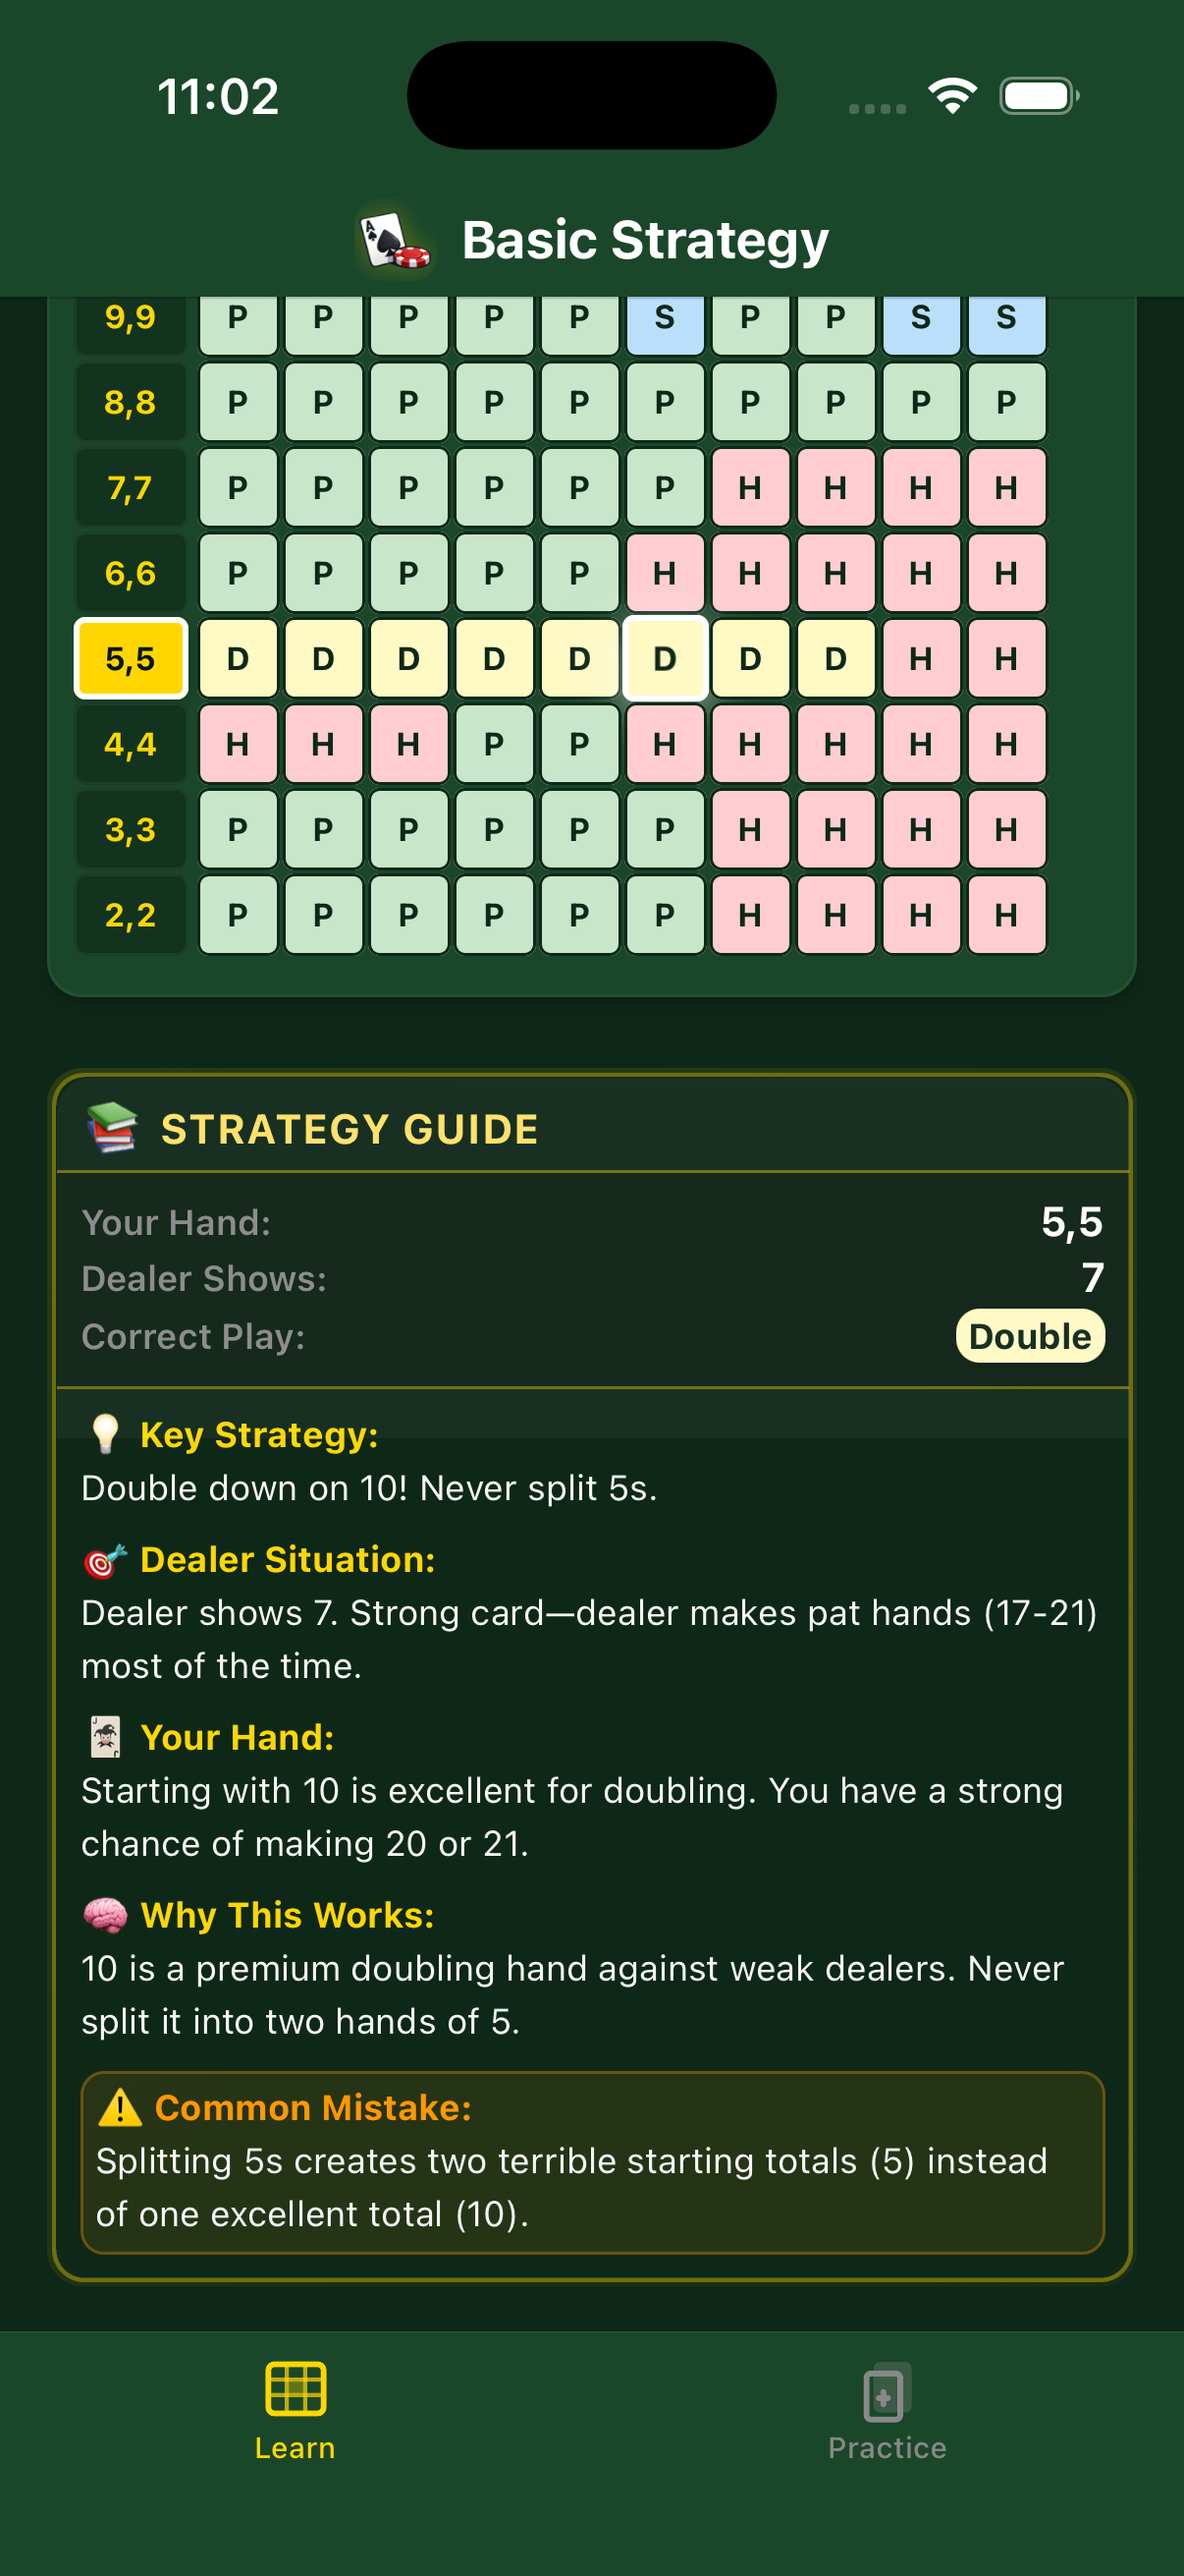
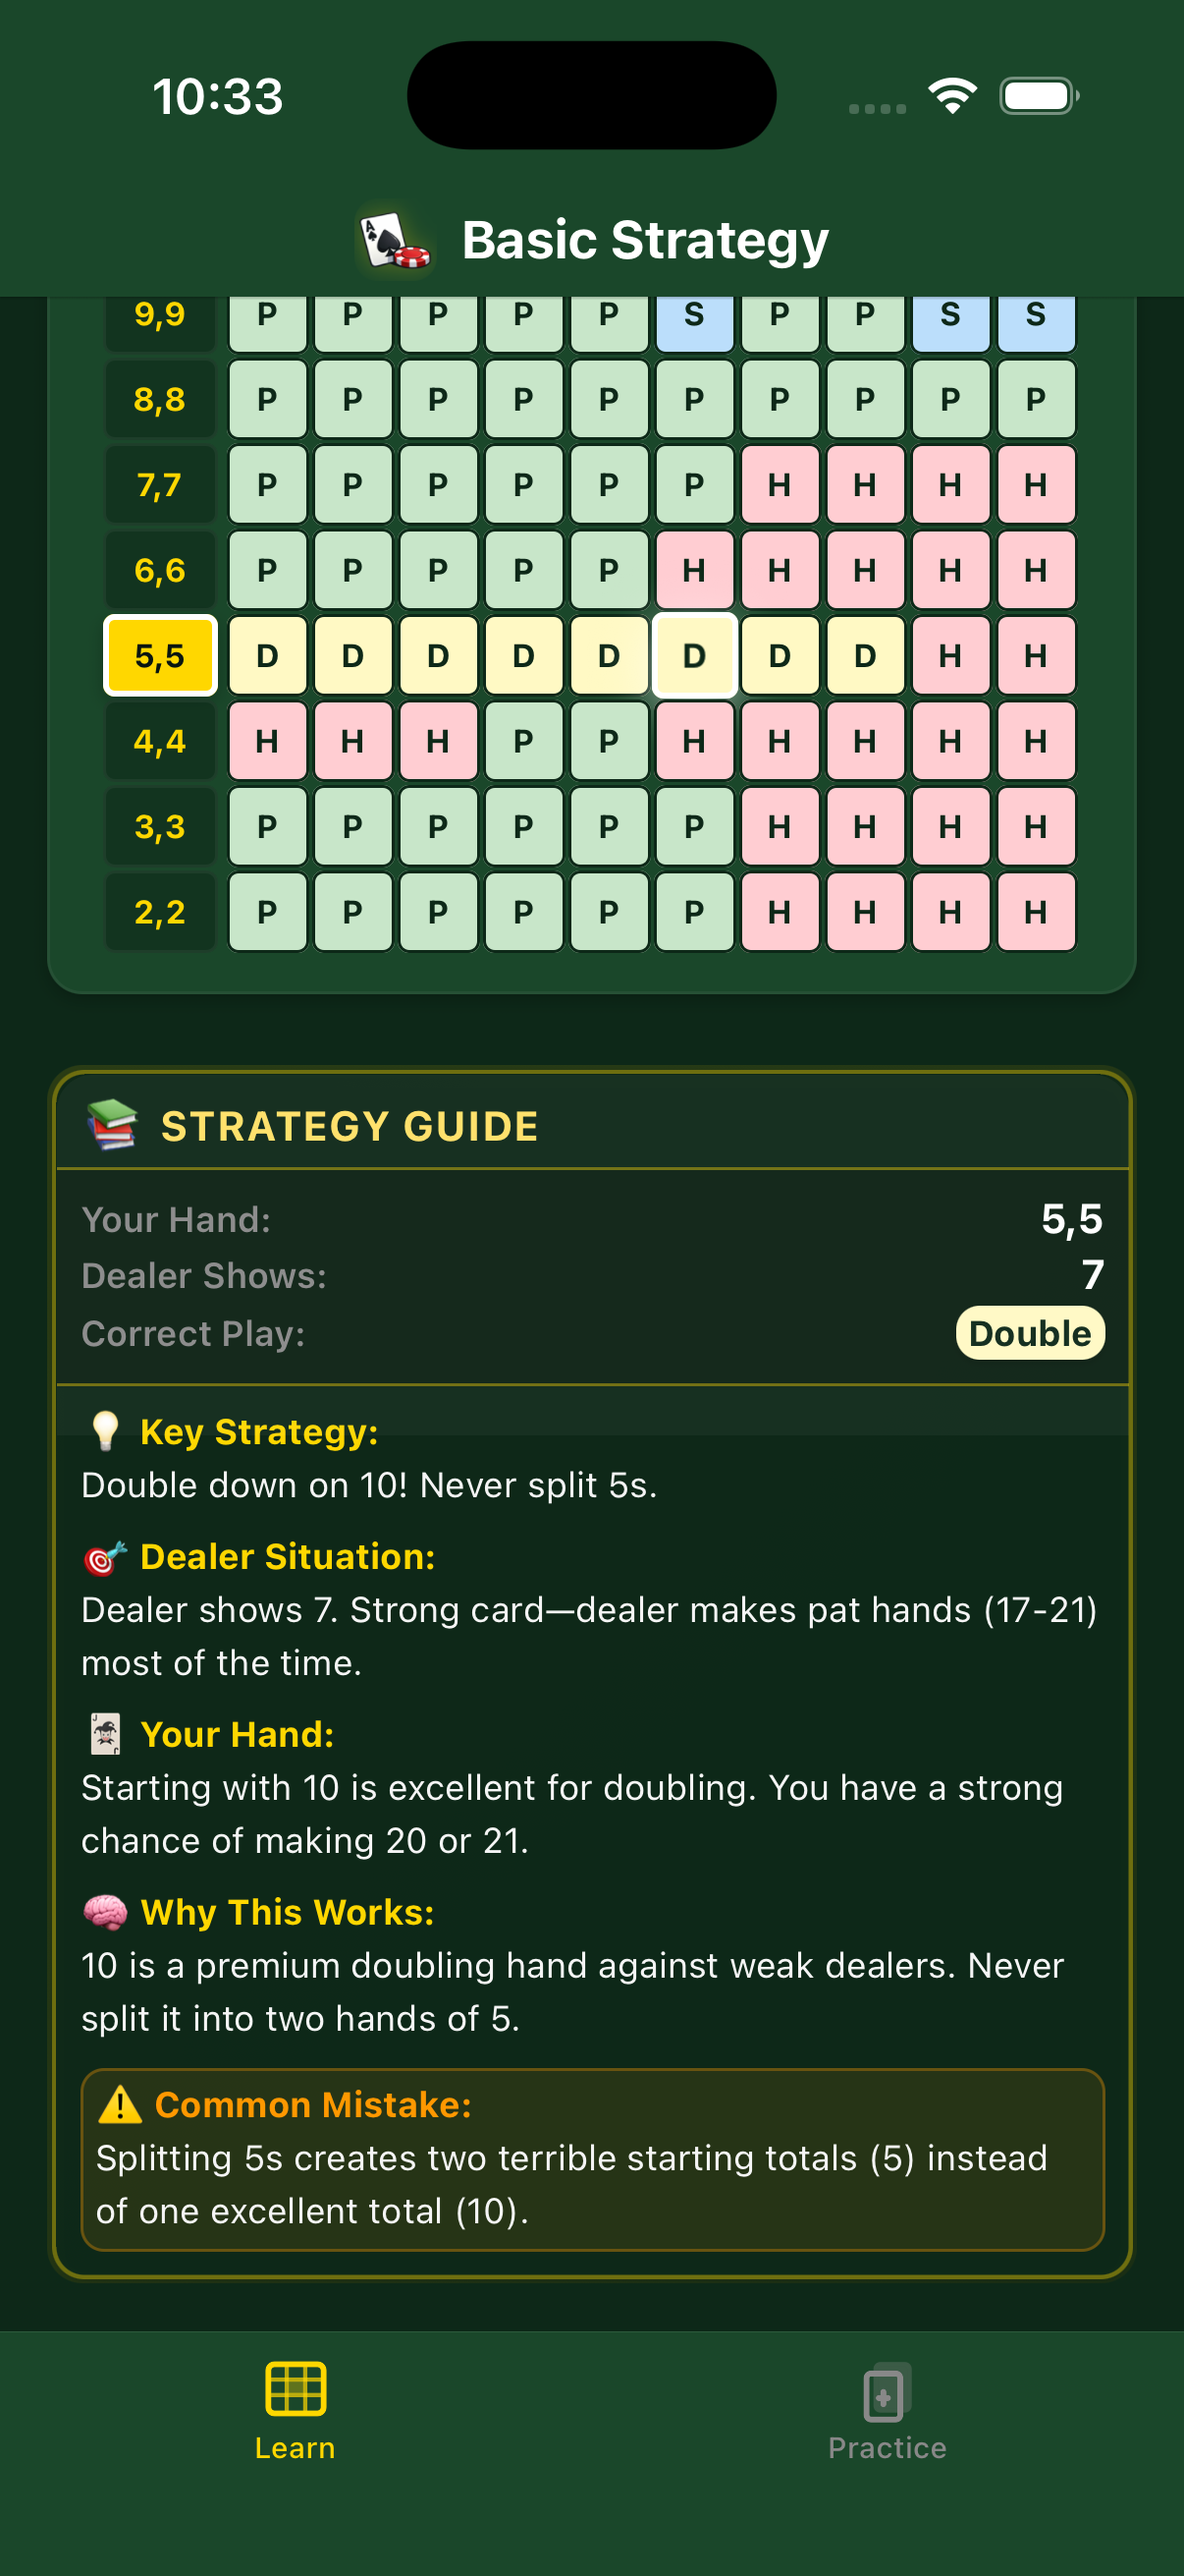
fix spacing, text size, new screens

diff --git a/components/StatBar.tsx b/components/StatBar.tsx
@@ -1,5 +1,5 @@
 import React from 'react';
-import { StyleSheet, Text, View, ViewStyle, TouchableOpacity } from 'react-native';
+import { StyleSheet, Text, View, ViewStyle, TouchableOpacity, useWindowDimensions } from 'react-native';
 import { LinearGradient } from 'expo-linear-gradient';
 import { PracticeStats } from '@/types';
 import { COLORS, THEME } from '@/constants/theme';
@@ -13,6 +13,9 @@ interface StatBarProps {
 }
 
 export function StatBar({ stats, showStreak = true, coachMode = false, onCoachToggle, style }: StatBarProps) {
+  const { width: screenWidth } = useWindowDimensions();
+  const isTablet = screenWidth >= 768;
+
   const getStreakEmoji = (streak: number): string => {
     if (streak >= 10) return '🔥🔥';
     if (streak >= 5) return '🔥';
@@ -27,39 +30,39 @@ export function StatBar({ stats, showStreak = true, coachMode = false, onCoachTo
       style={[styles.container, style]}
     >
       {/* Glass border effect */}
-      <View style={styles.innerContainer}>
+      <View style={[styles.innerContainer, isTablet && styles.innerContainerTablet]}>
         {/* Accuracy */}
         <View style={styles.stat}>
-          <Text style={styles.statValue}>{stats.accuracy}%</Text>
-          <Text style={styles.statLabel}>Accuracy</Text>
+          <Text style={[styles.statValue, isTablet && styles.statValueTablet]}>{stats.accuracy}%</Text>
+          <Text style={[styles.statLabel, isTablet && styles.statLabelTablet]}>Accuracy</Text>
         </View>
 
         {/* Divider */}
-        <View style={styles.divider} />
+        <View style={[styles.divider, isTablet && styles.dividerTablet]} />
 
         {/* Total Hands */}
         <View style={styles.stat}>
-          <Text style={styles.statValue}>
+          <Text style={[styles.statValue, isTablet && styles.statValueTablet]}>
             {stats.correctDecisions}/{stats.totalHands}
           </Text>
-          <Text style={styles.statLabel}>Correct</Text>
+          <Text style={[styles.statLabel, isTablet && styles.statLabelTablet]}>Correct</Text>
         </View>
 
         {/* Divider */}
-        {showStreak && <View style={styles.divider} />}
+        {showStreak && <View style={[styles.divider, isTablet && styles.dividerTablet]} />}
 
         {/* Streak */}
         {showStreak && (
           <View style={styles.stat}>
-            <Text style={styles.statValue}>
+            <Text style={[styles.statValue, isTablet && styles.statValueTablet]}>
               {getStreakEmoji(stats.currentStreak)} {stats.currentStreak}
             </Text>
-            <Text style={styles.statLabel}>Streak</Text>
+            <Text style={[styles.statLabel, isTablet && styles.statLabelTablet]}>Streak</Text>
           </View>
         )}
 
         {/* Divider before Coach toggle */}
-        {onCoachToggle && <View style={styles.divider} />}
+        {onCoachToggle && <View style={[styles.divider, isTablet && styles.dividerTablet]} />}
 
         {/* Coach Mode Toggle */}
         {onCoachToggle && (
@@ -67,14 +70,16 @@ export function StatBar({ stats, showStreak = true, coachMode = false, onCoachTo
             style={styles.stat}
             onPress={onCoachToggle}
             activeOpacity={0.7}
+            hitSlop={{ top: 12, bottom: 12, left: 12, right: 12 }}
           >
             <Text style={[
               styles.statValue,
+              isTablet && styles.statValueTablet,
               coachMode ? styles.coachActiveValue : styles.coachInactiveValue
             ]}>
               💡
             </Text>
-            <Text style={[styles.statLabel, coachMode && styles.coachActiveLabel]}>
+            <Text style={[styles.statLabel, isTablet && styles.statLabelTablet, coachMode && styles.coachActiveLabel]}>
               Coach
             </Text>
           </TouchableOpacity>
@@ -104,6 +109,9 @@ const styles = StyleSheet.create({
     borderWidth: 1,
     borderColor: COLORS.glass.whiteLight,
   },
+  innerContainerTablet: {
+    padding: THEME.spacing.lg,
+  },
   stat: {
     alignItems: 'center',
     flex: 1,
@@ -117,6 +125,10 @@ const styles = StyleSheet.create({
     textShadowOffset: { width: 0, height: 0 },
     textShadowRadius: 8,
   },
+  statValueTablet: {
+    fontSize: THEME.typography.fontSize['2xl'],
+    marginBottom: THEME.spacing.xs,
+  },
   statLabel: {
     fontSize: THEME.typography.fontSize.xs,
     fontWeight: THEME.typography.fontWeight.medium,
@@ -124,11 +136,18 @@ const styles = StyleSheet.create({
     textTransform: 'uppercase',
     letterSpacing: 0.5,
   },
+  statLabelTablet: {
+    fontSize: THEME.typography.fontSize.sm,
+  },
   divider: {
     width: 1,
     height: 32,
     backgroundColor: COLORS.glass.whiteLight,
     marginHorizontal: THEME.spacing.xs,
+  },
+  dividerTablet: {
+    height: 40,
+    marginHorizontal: THEME.spacing.sm,
   },
   shine: {
     position: 'absolute',

diff --git a/components/FeedbackMessage.tsx b/components/FeedbackMessage.tsx
@@ -1,5 +1,5 @@
 import React from 'react';
-import { StyleSheet, Text, View, ViewStyle } from 'react-native';
+import { StyleSheet, Text, View, ViewStyle, useWindowDimensions } from 'react-native';
 import { LinearGradient } from 'expo-linear-gradient';
 import { Action } from '@/types';
 import { COLORS, THEME } from '@/constants/theme';
@@ -20,6 +20,9 @@ export function FeedbackMessage({
   explanation,
   style,
 }: FeedbackMessageProps) {
+  const { width: screenWidth } = useWindowDimensions();
+  const isTablet = screenWidth >= 768;
+
   const gradientColors: [string, string] = isCorrect
     ? ['rgba(76, 175, 80, 0.3)', 'rgba(76, 175, 80, 0.2)']
     : ['rgba(244, 67, 54, 0.3)', 'rgba(244, 67, 54, 0.2)'];
@@ -34,23 +37,23 @@ export function FeedbackMessage({
       end={{ x: 1, y: 1 }}
       style={[styles.container, style]}
     >
-      <View style={[styles.innerContainer, { borderColor }]}>
-        <Text style={[styles.result, { textShadowColor: glowColor }]}>
+      <View style={[styles.innerContainer, isTablet && styles.innerContainerTablet, { borderColor }]}>
+        <Text style={[styles.result, isTablet && styles.resultTablet, { textShadowColor: glowColor }]}>
           {isCorrect ? '✅ Correct!' : '❌ Incorrect'}
         </Text>
 
-        <Text style={styles.action}>
+        <Text style={[styles.action, isTablet && styles.actionTablet]}>
           You chose: <Text style={styles.bold}>{getActionLabel(userAction)}</Text>
         </Text>
 
         {!isCorrect && (
-          <Text style={styles.action}>
+          <Text style={[styles.action, isTablet && styles.actionTablet]}>
             Correct: <Text style={styles.bold}>{getActionLabel(correctAction)}</Text>
           </Text>
         )}
 
         {explanation && (
-          <Text style={styles.explanation}>{explanation}</Text>
+          <Text style={[styles.explanation, isTablet && styles.explanationTablet]}>{explanation}</Text>
         )}
       </View>
 
@@ -73,6 +76,9 @@ const styles = StyleSheet.create({
     padding: THEME.spacing.sm,
     borderWidth: 2,
   },
+  innerContainerTablet: {
+    padding: THEME.spacing.md,
+  },
   result: {
     fontSize: THEME.typography.fontSize.lg,
     fontWeight: THEME.typography.fontWeight.bold,
@@ -82,11 +88,19 @@ const styles = StyleSheet.create({
     textShadowOffset: { width: 0, height: 0 },
     textShadowRadius: 8,
   },
+  resultTablet: {
+    fontSize: THEME.typography.fontSize.xl,
+    marginBottom: THEME.spacing.sm,
+  },
   action: {
     fontSize: THEME.typography.fontSize.sm,
     color: COLORS.ui.lightGray,
     textAlign: 'center',
     marginBottom: THEME.spacing.xs / 2,
+  },
+  actionTablet: {
+    fontSize: THEME.typography.fontSize.base,
+    marginBottom: THEME.spacing.xs,
   },
   bold: {
     fontWeight: THEME.typography.fontWeight.bold,
@@ -99,6 +113,11 @@ const styles = StyleSheet.create({
     marginTop: THEME.spacing.xs,
     fontStyle: 'italic',
     lineHeight: THEME.typography.fontSize.xs * 1.4,
+  },
+  explanationTablet: {
+    fontSize: THEME.typography.fontSize.sm,
+    marginTop: THEME.spacing.sm,
+    lineHeight: THEME.typography.fontSize.sm * 1.4,
   },
   shine: {
     position: 'absolute',

diff --git a/app/(tabs)/practice.tsx b/app/(tabs)/practice.tsx
@@ -1,5 +1,5 @@
 import React, { useEffect, useState } from 'react';
-import { StyleSheet, Text, View, TouchableOpacity } from 'react-native';
+import { StyleSheet, Text, View, TouchableOpacity, useWindowDimensions } from 'react-native';
 import { usePractice } from '@/contexts/PracticeContext';
 import { Screen } from '@/components/Screen';
 import { StatBar } from '@/components/StatBar';
@@ -18,6 +18,8 @@ export default function PracticeScreen() {
   const { state, startNewHand, submitAction } = usePractice();
   const { currentHand, lastAction, wasCorrect, stats } = state;
   const [coachMode, setCoachMode] = useState(false);
+  const { width: screenWidth } = useWindowDimensions();
+  const isTablet = screenWidth >= 768;
 
   // Start first hand on mount
   useEffect(() => {
@@ -118,15 +120,15 @@ export default function PracticeScreen() {
                 style={styles.feedback}
               />
               <TouchableOpacity
-                style={styles.nextButton}
+                style={[styles.nextButton, isTablet && styles.nextButtonTablet]}
                 onPress={handleNextHand}
               >
-                <Text style={styles.nextButtonText}>Next Hand →</Text>
+                <Text style={[styles.nextButtonText, isTablet && styles.nextButtonTextTablet]}>Next Hand →</Text>
               </TouchableOpacity>
             </>
           ) : (
             <>
-              <Text style={styles.prompt}>What should you do?</Text>
+              <Text style={[styles.prompt, isTablet && styles.promptTablet]}>What should you do?</Text>
               <ActionButtons
                 availableActions={availableActions}
                 onActionPress={handleActionPress}
@@ -187,6 +189,10 @@ const styles = StyleSheet.create({
     textAlign: 'center',
     marginBottom: THEME.spacing.sm,
   },
+  promptTablet: {
+    fontSize: THEME.typography.fontSize.lg,
+    marginBottom: THEME.spacing.md,
+  },
   feedback: {
     marginBottom: THEME.spacing.sm,
   },
@@ -198,9 +204,16 @@ const styles = StyleSheet.create({
     alignItems: 'center',
     ...THEME.shadows.md,
   },
+  nextButtonTablet: {
+    paddingVertical: THEME.spacing.lg,
+    paddingHorizontal: THEME.spacing.xl,
+  },
   nextButtonText: {
     fontSize: THEME.typography.fontSize.base,
     fontWeight: THEME.typography.fontWeight.bold,
     color: COLORS.feltGreen.dark,
+  },
+  nextButtonTextTablet: {
+    fontSize: THEME.typography.fontSize.lg,
   },
 });

diff --git a/components/ActionButton.tsx b/components/ActionButton.tsx
@@ -6,6 +6,7 @@ import {
   ViewStyle,
   Platform,
   Animated,
+  useWindowDimensions,
 } from 'react-native';
 import * as Haptics from 'expo-haptics';
 import { LinearGradient } from 'expo-linear-gradient';
@@ -22,6 +23,8 @@ interface ActionButtonProps {
 }
 
 export function ActionButton({ action, onPress, disabled = false, style }: ActionButtonProps) {
+  const { width: screenWidth } = useWindowDimensions();
+  const isTablet = screenWidth >= 768;
   const colors = ACTION_BUTTON_COLORS[action as keyof typeof ACTION_BUTTON_COLORS];
   const label = getActionLabel(action);
   const scaleAnim = useRef(new Animated.Value(1)).current;
@@ -99,6 +102,7 @@ export function ActionButton({ action, onPress, disabled = false, style }: Actio
       <Animated.View
         style={[
           styles.container,
+          isTablet && styles.containerTablet,
           { transform: [{ scale: scaleAnim }] },
           glowStyle,
           disabled && styles.disabled,
@@ -113,6 +117,7 @@ export function ActionButton({ action, onPress, disabled = false, style }: Actio
           <Text
             style={[
               styles.text,
+              isTablet && styles.textTablet,
               { color: colors.text },
               disabled && styles.disabledText,
             ]}
@@ -144,6 +149,9 @@ const styles = StyleSheet.create({
     overflow: 'hidden',
     ...THEME.shadows.lg,
   },
+  containerTablet: {
+    height: 64,
+  },
   gradient: {
     flex: 1,
     justifyContent: 'center',
@@ -165,6 +173,9 @@ const styles = StyleSheet.create({
     textShadowColor: 'rgba(0, 0, 0, 0.2)',
     textShadowOffset: { width: 0, height: 1 },
     textShadowRadius: 2,
+  },
+  textTablet: {
+    fontSize: THEME.typography.fontSize.xl,
   },
   disabled: {
     opacity: 0.5,

diff --git a/app/(tabs)/index.tsx b/app/(tabs)/index.tsx
@@ -30,8 +30,8 @@ export default function LearnScreen() {
       <View style={styles.container}>
         {/* Title */}
         <View style={styles.header}>
-          <Text style={styles.title}>Basic Strategy Chart</Text>
-          <Text style={styles.subtitle}>
+          <Text style={[styles.title, isTablet && styles.titleTablet]}>Basic Strategy Chart</Text>
+          <Text style={[styles.subtitle, isTablet && styles.subtitleTablet]}>
             Tap any cell to see detailed strategy explanation
           </Text>
         </View>
@@ -104,10 +104,16 @@ const styles = StyleSheet.create({
     color: COLORS.ui.white,
     marginBottom: THEME.spacing.xs,
   },
+  titleTablet: {
+    fontSize: THEME.typography.fontSize['3xl'],
+  },
   subtitle: {
     fontSize: THEME.typography.fontSize.sm,
     color: COLORS.ui.mediumGray,
     fontStyle: 'italic',
+  },
+  subtitleTablet: {
+    fontSize: THEME.typography.fontSize.base,
   },
   legend: {
     marginBottom: THEME.spacing.md,

diff --git a/components/StrategyChart.tsx b/components/StrategyChart.tsx
@@ -88,7 +88,10 @@ export function StrategyChart({ handType, style, onCellSelect }: StrategyChartPr
         horizontal
         showsHorizontalScrollIndicator={false}
         scrollEnabled={sizes.needsScroll}
-        contentContainerStyle={styles.scrollContent}
+        contentContainerStyle={[
+          styles.scrollContent,
+          !sizes.needsScroll && styles.scrollContentCentered
+        ]}
       >
         <View>
           {/* Header row with dealer cards */}
@@ -188,6 +191,10 @@ const styles = StyleSheet.create({
   },
   scrollContent: {
     paddingBottom: THEME.spacing.xs,
+  },
+  scrollContentCentered: {
+    flexGrow: 1,
+    justifyContent: 'center',
   },
   headerRow: {
     flexDirection: 'row',
